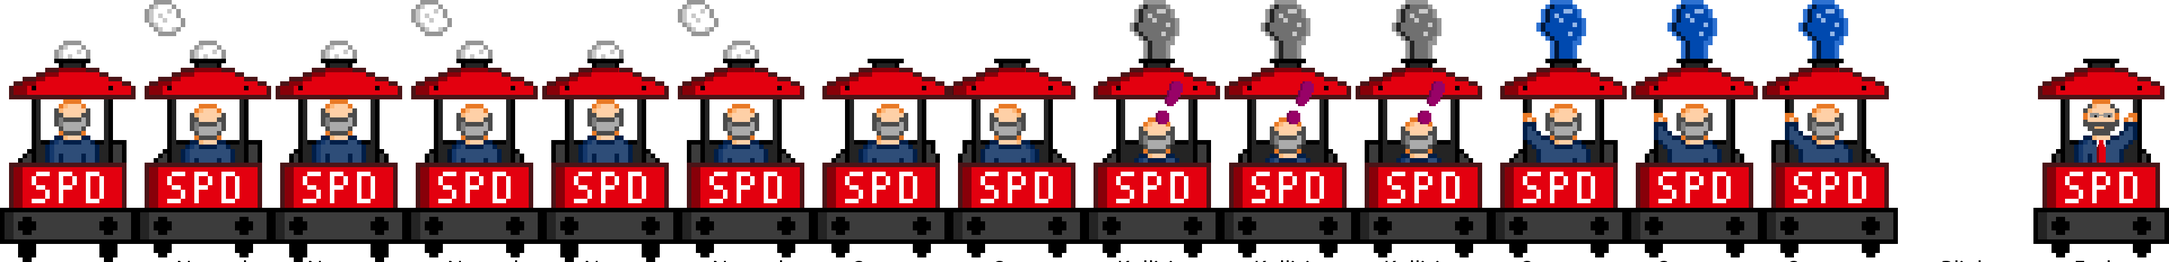
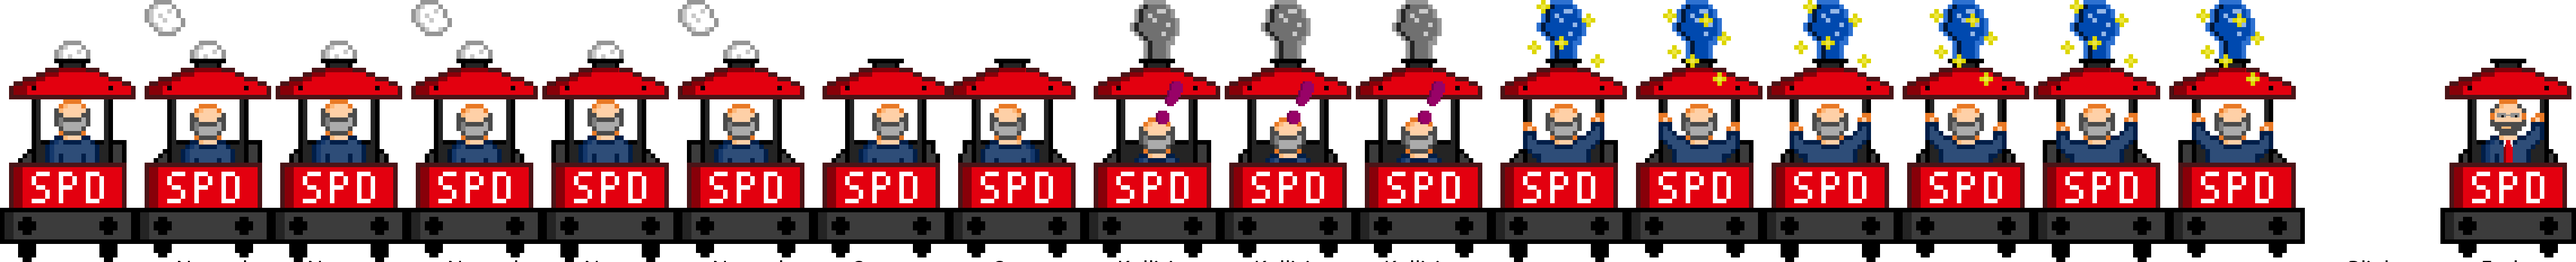
added Glänzen/Glühen/Götterfunken – Gottkanzler as suggested by #38 and #2

diff --git a/js/schulzzug.js b/js/schulzzug.js
@@ -256,8 +256,9 @@ function create() {
     train.animations.add('rechts', [4, 5], 7, true);
     train.animations.add('jump_left',[6],10,true);
     train.animations.add('jump_right',[7],10,true);
-    train.animations.add('collision',[9,14],10,true);
-    train.animations.add('stern', [12], 10, true);
+    train.animations.add('collision',[9,17],10,true);
+    train.animations.add('stern', [13,14], 10, true);
+    
     
     if(isRetina()) {
         train.scale.setTo(0.5, 0.5);
